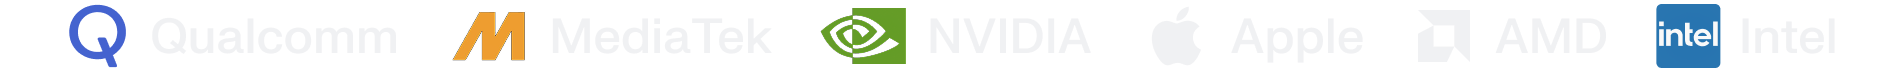
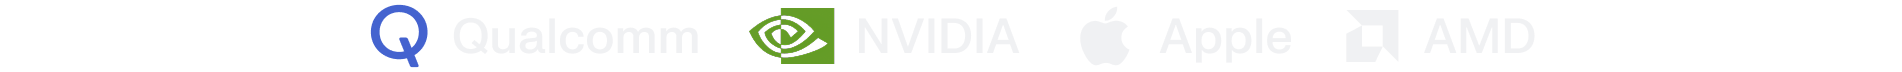
feat: update assets (#1014)
* update assets

* add assets

* add assets

* wip

* update

* wip

diff --git a/README.md b/README.md
@@ -9,7 +9,7 @@
     <picture>
       <source srcset="assets/chipmakers-dark.png" media="(prefers-color-scheme: dark)">
       <source srcset="assets/chipmakers.png" media="(prefers-color-scheme: light)">
-      <img src="assets/chipmakers.png" style="max-height:30px; height:auto; width:auto;">
+      <img src="assets/chipmakers-dark.png" style="max-height:30px; height:auto; width:auto;">
     </picture>
   </p>
   <p>
